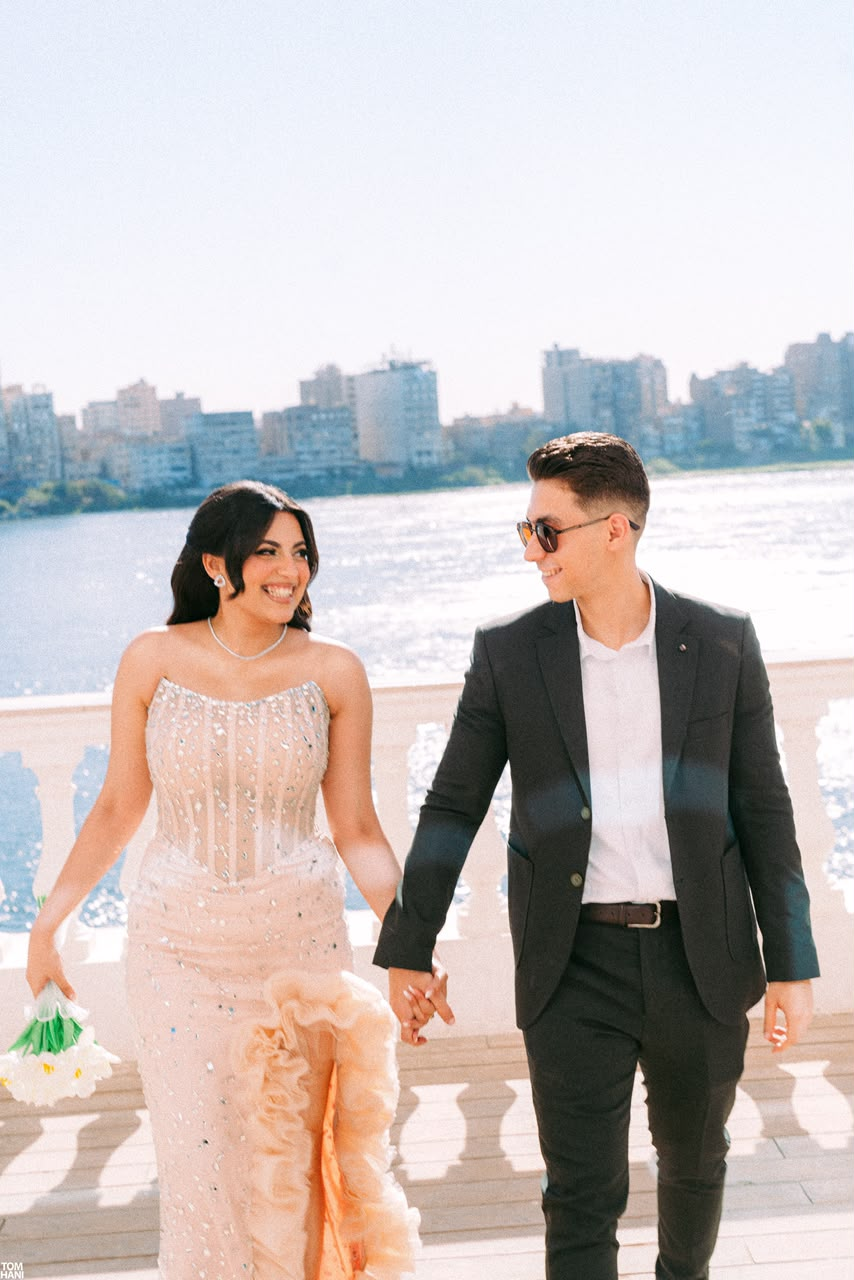
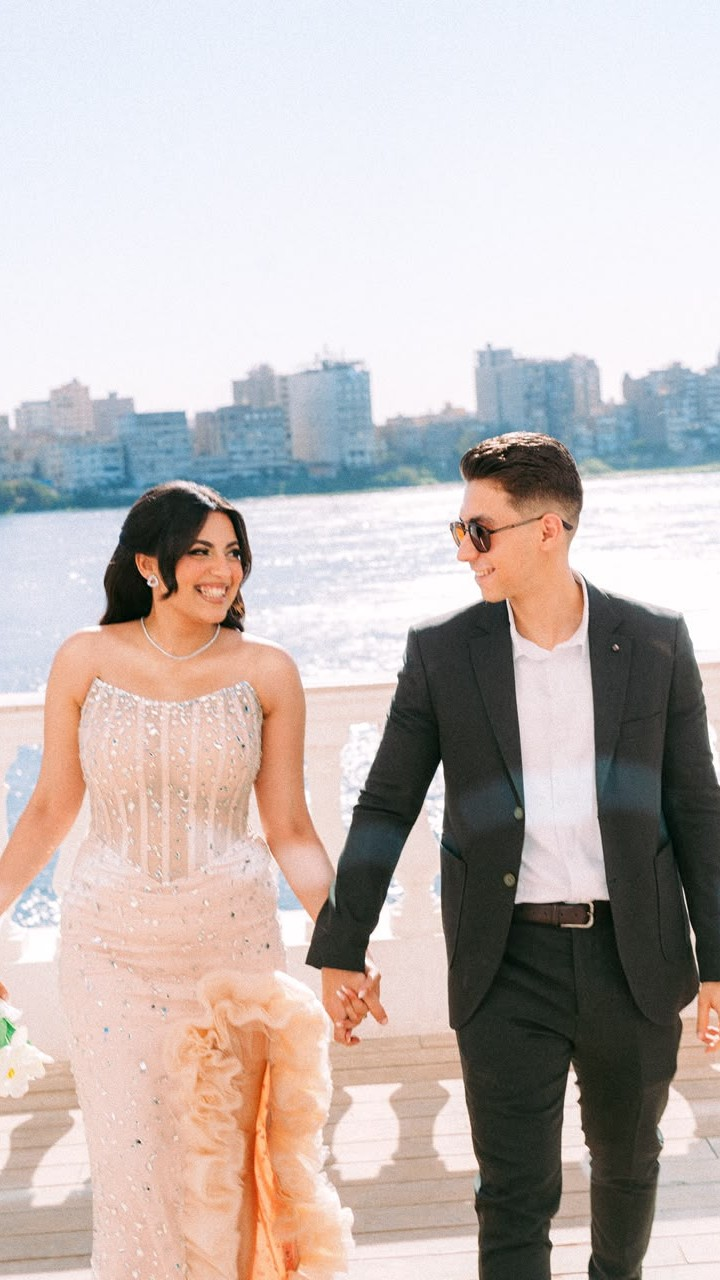
update

diff --git a/index.html b/index.html
@@ -1219,7 +1219,7 @@
                         <div class="t396__filter" data-artboard-recid="2442650993"></div>
                         <div class='t396__elem tn-elem tn-elem__24426509931776948113983' data-elem-id='1776948113983' data-elem-type='html' data-field-top-value="0" data-field-left-value="380" data-field-height-value="782" data-field-width-value="440" data-field-axisy-value="top" data-field-axisx-value="left" data-field-container-value="grid" data-field-topunits-value="px" data-field-leftunits-value="px" data-field-heightunits-value="px" data-field-widthunits-value="px" data-field-widthmode-value="fixed" data-field-heightmode-value="fixed" data-field-left-res-320-value="-60" data-field-left-res-480-value="20" data-field-left-res-640-value="100" data-field-left-res-960-value="260">
                             <div class='tn-atom tn-atom__html'>
-                                <img src="images/shaw2y-roza-hero.jpg" alt="Shaw2y & Roza" style="width:100%;height:100%;display:block;">
+                                <img src="images/shaw2y-roza-hero.jpg" alt="Shaw2y & Roza" style="width:100%;height:100%;object-fit:cover;display:block;">
                             </div>
                         </div>
                         <div class='t396__elem tn-elem tn-elem__24426509931776948546583' data-elem-id='1776948546583' data-elem-type='shape' data-field-top-value="0" data-field-left-value="380" data-field-height-value="782" data-field-width-value="440" data-field-axisy-value="top" data-field-axisx-value="left" data-field-container-value="grid" data-field-topunits-value="px" data-field-leftunits-value="px" data-field-heightunits-value="px" data-field-widthunits-value="px" data-field-left-res-320-value="-60" data-field-left-res-480-value="20" data-field-left-res-640-value="100" data-field-left-res-960-value="260">
